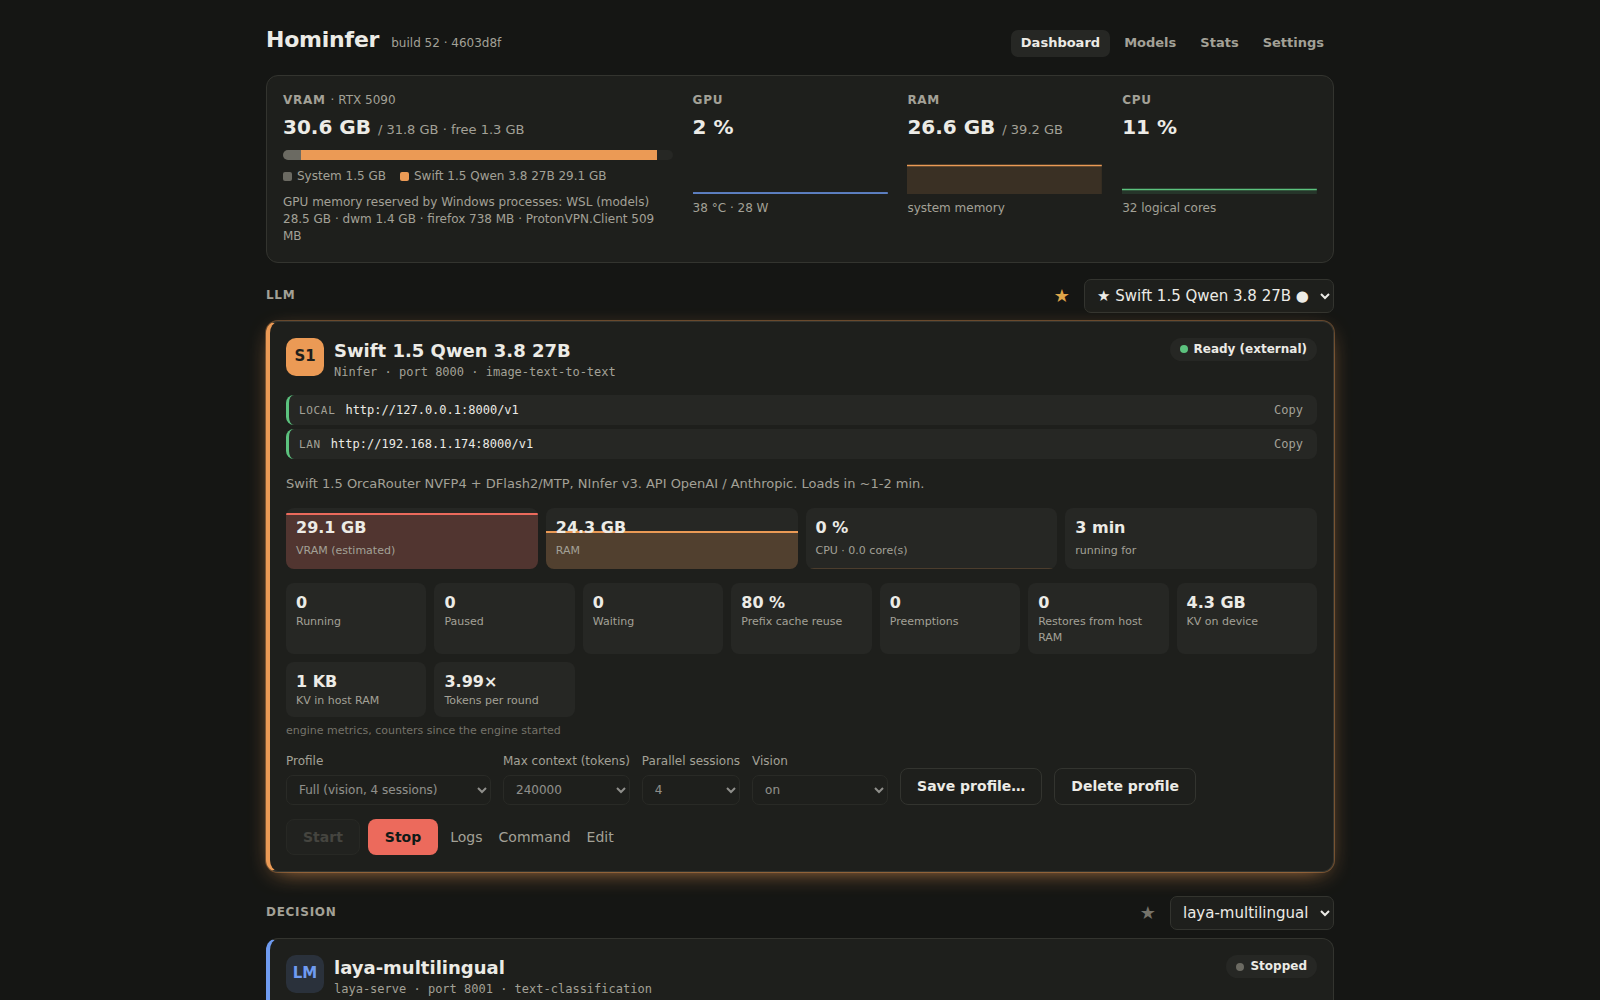
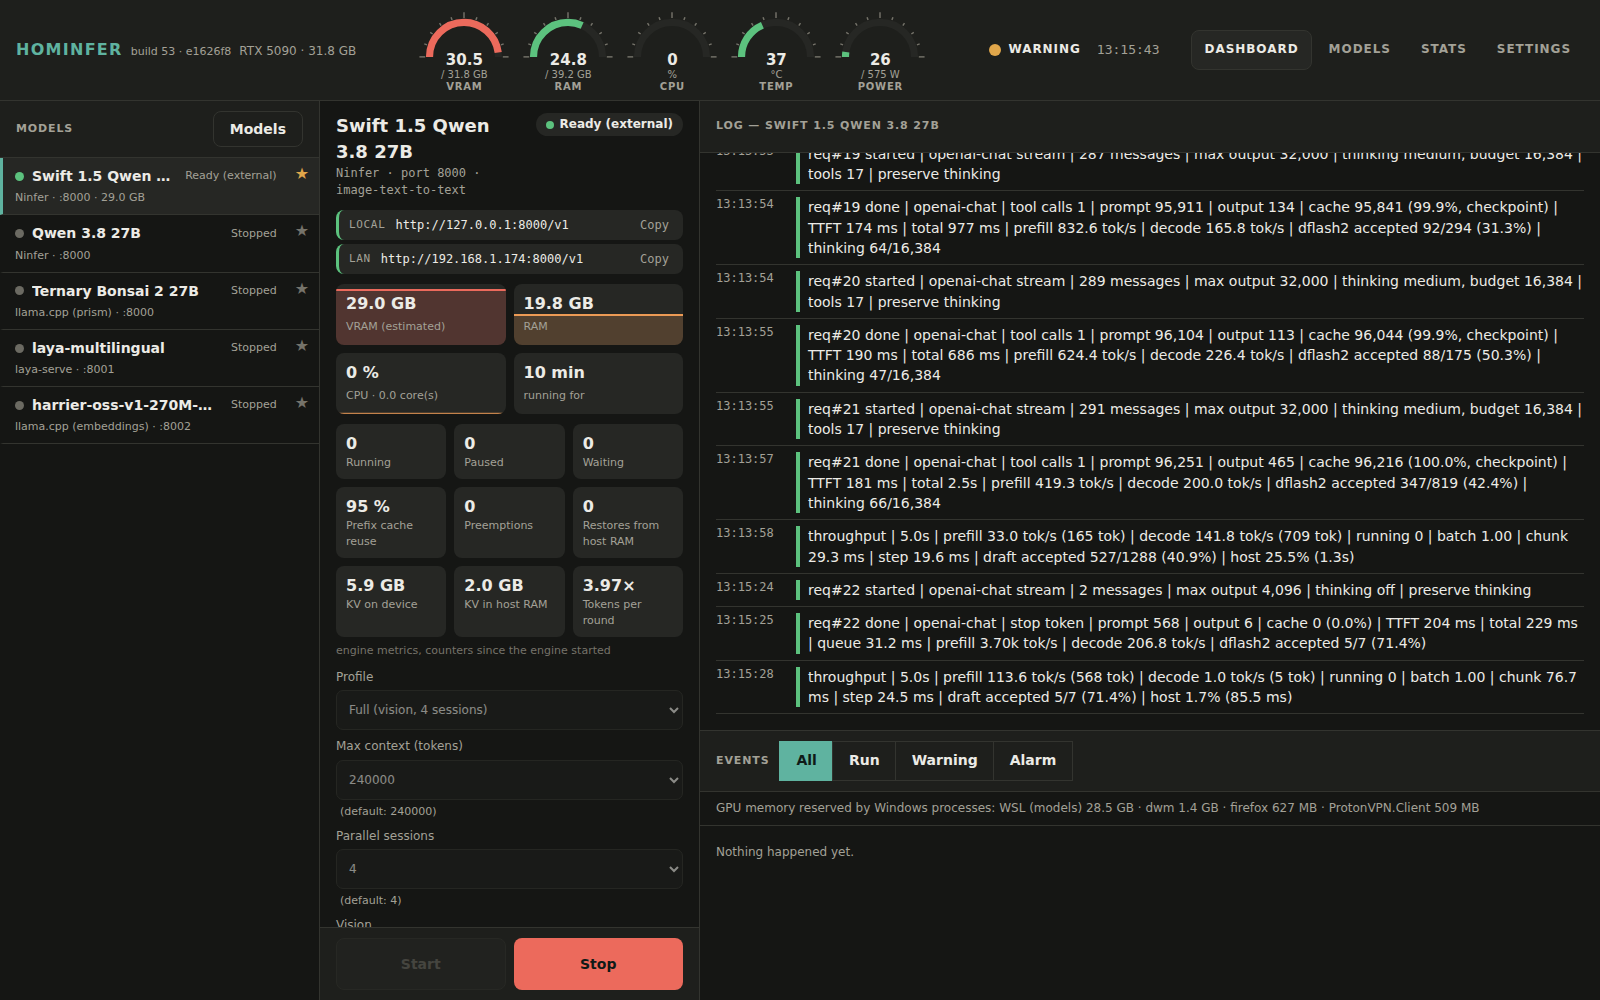
Show the README themes in the cockpit layout
The theme gallery used the classic layout while the rest of the README
shows the cockpit one, so the themes looked tied to the older layout.
The classic layout stays visible in the Stats capture.

diff --git a/README.md b/README.md
@@ -46,8 +46,8 @@ Linux / WSL2, NVIDIA or AMD (APUs included).
 
 ### Themes
 
-The screenshots above use the *cockpit* layout with the *cyber* theme. The same dashboard in the
-*classic* layout:
+The screenshots above use the *cockpit* layout with the *cyber* theme. The same dashboard with the other
+themes:
 
 | Dark | Light |
 |---|---|
